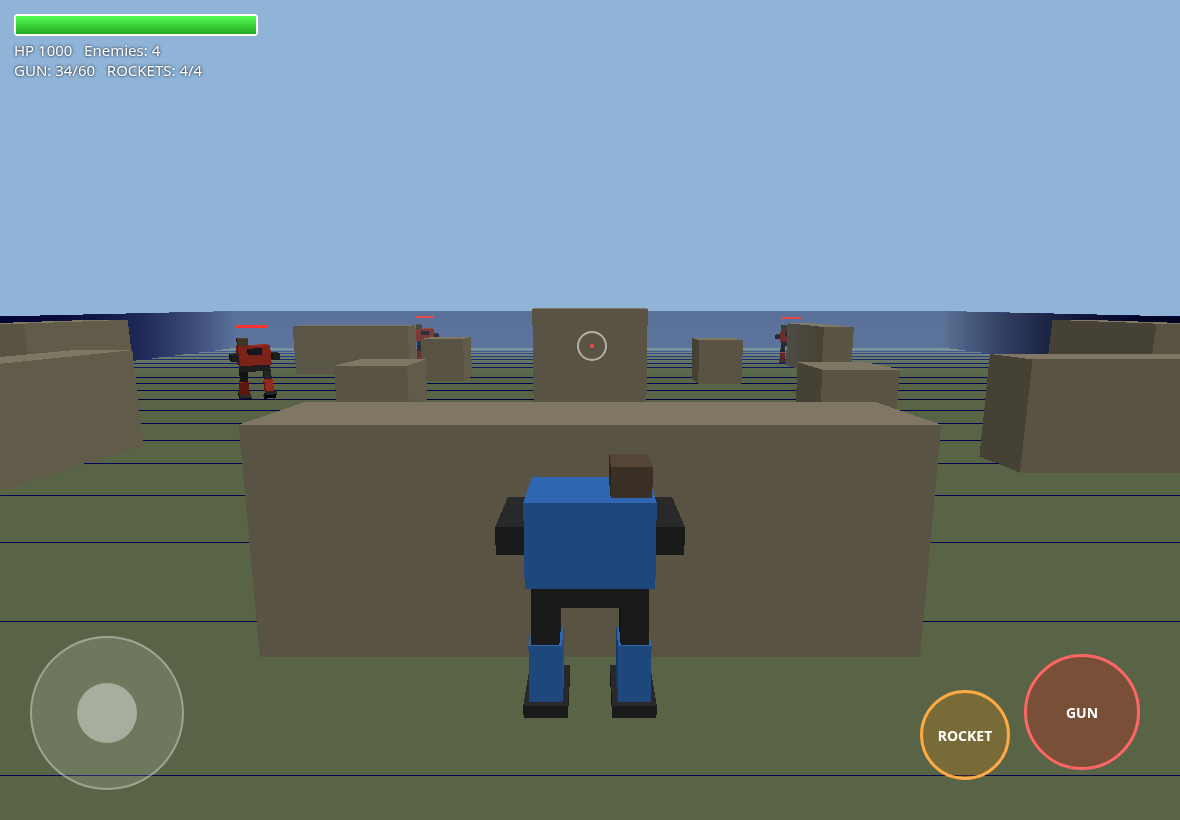
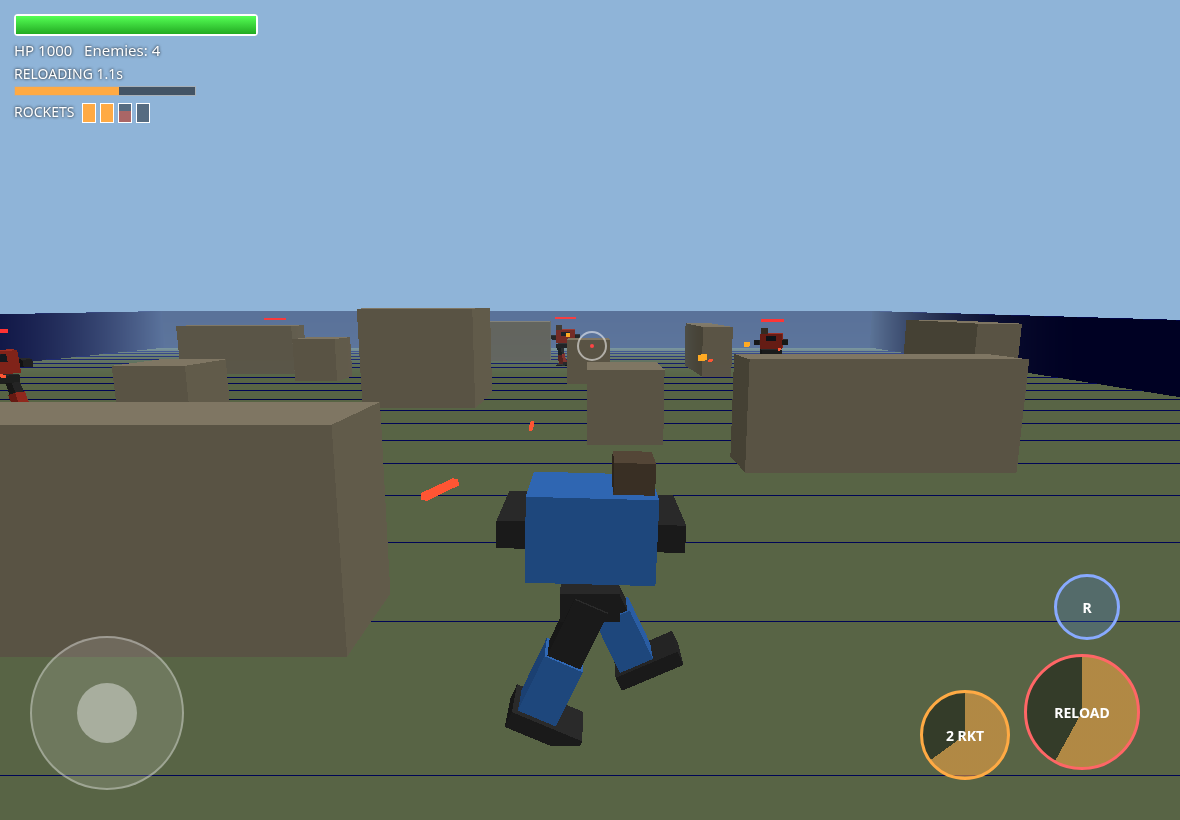
Split legs/torso, aim-facing torso, reload system + indicators

diff --git a/game.js b/game.js
@@ -1,4 +1,13 @@
 import * as THREE from './three.module.js';
+// ================= CONFIG (tune here) =================
+const CFG={
+ player:{hp:1000,speed:9,legTurn:6,torsoTurn:7},
+ gun:{mag:60,reload:2.5,fireInterval:0.09,dmg:14,spread:0.03},
+ rocket:{max:4,recharge:3.0,cooldown:0.35,dmg:140,splash:4},
+ enemy:{hp:400,speed:6,legTurn:4,torsoTurn:2.5,mag:24,reload:3.0,burstInterval:0.15,burstPause:[1.2,2.4],dmg:9,
+        rockets:2,rocketRecharge:6.0,rocketChance:0.15},
+};
+// ======================================================
 const R=new THREE.WebGLRenderer({antialias:false});
 R.setPixelRatio(Math.min(devicePixelRatio,1.5));R.setSize(innerWidth,innerHeight);R.shadowMap.enabled=false;
 document.body.prepend(R.domElement);
@@ -20,35 +29,42 @@ function blocked(x,z,r){for(const o of obst)if(Math.abs(x-o.x)<o.hx+r&&Math.abs(
 function los(a,b){const d=b.clone().sub(a),L=d.length(),n=Math.ceil(L/1.5);for(let i=1;i<n;i++){const p=a.clone().addScaledVector(d,i/n);for(const o of obst)if(p.y<o.h&&Math.abs(p.x-o.x)<o.hx&&Math.abs(p.z-o.z)<o.hz)return false;}return true;}
 // mech builder
 function mech(col){const g=new THREE.Group(),m=M(col),dk=M(0x333333);
- const legs=[];for(const s of[-1,1]){const l=new THREE.Group();l.position.set(s*0.8,2.4,0);const th=new THREE.Mesh(boxG,dk);th.scale.set(.5,1.3,.6);th.position.y=-.6;const sh=new THREE.Mesh(boxG,m);sh.scale.set(.6,1.3,.7);sh.position.y=-1.7;const ft=new THREE.Mesh(boxG,dk);ft.scale.set(.8,.3,1.3);ft.position.set(0,-2.3,.2);l.add(th,sh,ft);g.add(l);legs.push(l);}
+ const lower=new THREE.Group();g.add(lower);const legs=[];for(const s of[-1,1]){const l=new THREE.Group();l.position.set(s*0.8,2.4,0);const th=new THREE.Mesh(boxG,dk);th.scale.set(.5,1.3,.6);th.position.y=-.6;const sh=new THREE.Mesh(boxG,m);sh.scale.set(.6,1.3,.7);sh.position.y=-1.7;const ft=new THREE.Mesh(boxG,dk);ft.scale.set(.8,.3,1.3);ft.position.set(0,-2.3,.2);l.add(th,sh,ft);lower.add(l);legs.push(l);}
  const top=new THREE.Group();top.position.y=2.6;g.add(top);
- const hip=new THREE.Mesh(boxG,dk);hip.scale.set(2,.5,1);hip.position.y=2.4;g.add(hip);
+ const hip=new THREE.Mesh(boxG,dk);hip.scale.set(2,.5,1);hip.position.y=2.4;lower.add(hip);
  const t=new THREE.Mesh(boxG,m);t.scale.set(2.2,1.5,1.6);t.position.y=.8;top.add(t);
  const cab=new THREE.Mesh(boxG,M(0x222a33));cab.scale.set(1,.5,.4);cab.position.set(0,1.1,.75);top.add(cab);
- const guns=[];for(const s of[-1,1]){const gp=new THREE.Mesh(boxG,dk);gp.scale.set(.5,.5,1.8);gp.position.set(s*1.4,.7,.6);top.add(gp);guns.push(gp);}
+ const guns=[];for(const s of[-1,1]){const pv=new THREE.Group();pv.position.set(s*1.4,.7,0);const gp=new THREE.Mesh(boxG,dk);gp.scale.set(.5,.5,1.8);gp.position.z=.6;pv.add(gp);top.add(pv);guns.push(pv);}
  const pod=new THREE.Mesh(boxG,M(0x665544));pod.scale.set(.7,.6,.9);pod.position.set(-.7,1.8,-.1);top.add(pod);
- S.add(g);return{g,legs,top,guns,walk:0};}
-function animLegs(u,sp,dt){u.walk+=sp*dt*2.2;const a=sp>0.1?Math.sin(u.walk)*0.5:0;u.legs[0].rotation.x=a;u.legs[1].rotation.x=-a;}
+ S.add(g);return{g,lower,legs,top,guns,pod,walk:0,legYaw:0,tYaw:0,gp:0};}
+const wrap=a=>Math.atan2(Math.sin(a),Math.cos(a));
+function turn(cur,tgt,rate,dt){const d=wrap(tgt-cur);return cur+Math.sign(d)*Math.min(Math.abs(d),rate*dt);}
+// legs face movement; if moving >110deg away from torso, legs face opposite and walk backwards
+function animLegs(u,mvx,mvz,sp,dt,legTurn){let dir=1;
+ if(sp>0.1){let my=Math.atan2(mvx,mvz);if(Math.abs(wrap(my-u.tYaw))>1.9){my+=Math.PI;dir=-1;}u.legYaw=turn(u.legYaw,my,legTurn,dt);u.walk+=dir*sp*dt*1.1;}
+ const tgtA=sp>0.1?Math.sin(u.walk)*0.55:0;for(let i=0;i<2;i++){const want=i?-tgtA:tgtA;u.legs[i].rotation.x+=(want-u.legs[i].rotation.x)*Math.min(1,dt*12);}
+ u.lower.rotation.y=u.legYaw;u.top.rotation.y=u.tYaw;const bob=sp>0.1?Math.abs(Math.cos(u.walk))*0.18:0;u.top.position.y+=(2.6+bob-u.top.position.y)*Math.min(1,dt*10);
+ u.top.rotation.z=sp>0.1?Math.sin(u.walk)*0.03:0;for(const g of u.guns)g.rotation.x=u.gp;}
 // state
 let P,E=[],B=[],FX=[],over=false;
 const inp={mx:0,mz:0,mg:false,rk:false,keys:{}};
 function newGame(){E.forEach(e=>S.remove(e.g));if(P)S.remove(P.g);B.forEach(b=>S.remove(b.m));FX.forEach(f=>S.remove(f.m));B=[];FX=[];
- P=Object.assign(mech(0x3a7bd5),{hp:1000,max:1000,yaw:0,pitch:0.05,ammo:60,reload:0,rk:4,rkCd:0,rkRe:0,fireCd:0});P.g.position.set(0,0,48);P.yaw=Math.PI;
+ P=Object.assign(mech(0x3a7bd5),{hp:CFG.player.hp,max:CFG.player.hp,yaw:Math.PI,pitch:0.05,ammo:CFG.gun.mag,reload:0,rk:CFG.rocket.max,rkCd:0,rkRe:0,fireCd:0});P.g.position.set(0,0,48);P.tYaw=P.legYaw=Math.PI;
  E=[];const sp=[[-40,-45],[40,-45],[0,-50],[-45,-15],[45,-15]];const n=3+Math.floor(Math.random()*3);
- for(let i=0;i<n;i++){const e=Object.assign(mech(0xc0392b),{hp:400,max:400,yaw:0,cd:1+Math.random()*2,tgt:null,think:0,burst:0});e.g.position.set(sp[i][0],0,sp[i][1]);
+ for(let i=0;i<n;i++){const e=Object.assign(mech(0xc0392b),{hp:CFG.enemy.hp,max:CFG.enemy.hp,cd:1+Math.random()*2,tgt:null,think:0,burst:0,ammo:CFG.enemy.mag,reload:0,rk:CFG.enemy.rockets,rkRe:0});e.g.position.set(sp[i][0],0,sp[i][1]);
   const bar=new THREE.Mesh(new THREE.PlaneGeometry(2.4,.25),new THREE.MeshBasicMaterial({color:0xff3333}));bar.position.y=5.6;e.g.add(bar);e.bar=bar;E.push(e);}
  over=false;document.getElementById('msg').style.display='none';}
 const bulletG=new THREE.BoxGeometry(.15,.15,1.2),rocketG=new THREE.BoxGeometry(.35,.35,1),bm=new THREE.MeshBasicMaterial({color:0xffee66}),ebm=new THREE.MeshBasicMaterial({color:0xff5533}),rm=new THREE.MeshBasicMaterial({color:0xffaa22});
 function shoot(from,dir,owner,rocket){const m=new THREE.Mesh(rocket?rocketG:bulletG,rocket?rm:(owner==='p'?bm:ebm));m.position.copy(from);m.lookAt(from.clone().add(dir));S.add(m);
- B.push({m,v:dir.clone().multiplyScalar(rocket?45:110),owner,rocket,life:rocket?3:1.2,dmg:rocket?140:(owner==='p'?14:9)});}
+ B.push({m,v:dir.clone().multiplyScalar(rocket?45:110),owner,rocket,life:rocket?3:1.2,dmg:rocket?CFG.rocket.dmg:(owner==='p'?CFG.gun.dmg:CFG.enemy.dmg)});}
 const fxG=new THREE.SphereGeometry(1,8,6);
 function boom(p,s,c=0xff8800){const m=new THREE.Mesh(fxG,new THREE.MeshBasicMaterial({color:c,transparent:true}));m.position.copy(p);m.scale.setScalar(.2);S.add(m);FX.push({m,t:0,s});}
-function muzzle(u,i){const p=new THREE.Vector3();u.guns[i].getWorldPosition(p);const f=new THREE.Vector3(Math.sin(u.yaw),0,Math.cos(u.yaw));return p.addScaledVector(f,1);}
+function muzzle(u,i){const p=new THREE.Vector3();u.guns[i].getWorldPosition(p);const f=new THREE.Vector3(Math.sin(u.tYaw),0,Math.cos(u.tYaw));return p.addScaledVector(f,1.5);}
 // aim direction for player: from camera through crosshair
 const ray=new THREE.Raycaster();
 function playerAim(){ray.setFromCamera(new THREE.Vector2(0,0.16),C);const tg=[...E.map(e=>e.g),...obst.map(o=>o.m),ground];const h=ray.intersectObjects(tg,true).find(h=>h.distance>12);return h?h.point:ray.ray.at(120,new THREE.Vector3());}
 // input: keyboard/mouse
-addEventListener('keydown',e=>{inp.keys[e.code]=true;if(e.code==='KeyR'&&P.ammo<60&&!P.reload)P.reload=1.6;});addEventListener('keyup',e=>inp.keys[e.code]=false);
+addEventListener('keydown',e=>{inp.keys[e.code]=true;if(e.code==='KeyR')manualReload();});addEventListener('keyup',e=>inp.keys[e.code]=false);
 const cv=R.domElement;cv.addEventListener('mousedown',e=>{if(document.pointerLockElement!==cv&&cv.requestPointerLock){cv.requestPointerLock();}if(e.button===0)inp.mMG=true;if(e.button===2)inp.mRK=true;});
 addEventListener('mouseup',e=>{if(e.button===0)inp.mMG=false;if(e.button===2)inp.mRK=false;});addEventListener('contextmenu',e=>e.preventDefault());
 addEventListener('mousemove',e=>{if(document.pointerLockElement===cv){P.yaw-=e.movementX*.003;P.pitch=Math.max(-.3,Math.min(.5,P.pitch+e.movementY*.002));}});
@@ -64,7 +80,7 @@ aim.addEventListener('touchstart',e=>{e.preventDefault();if(aid===null){const t=
 function hold(id,k){const b=document.getElementById(id);b.addEventListener('touchstart',e=>{e.preventDefault();inp[k]=true;},{passive:false});b.addEventListener('touchend',e=>{e.preventDefault();inp[k]=false;});b.addEventListener('touchcancel',()=>inp[k]=false);}
 hold('bMG','mg');hold('bRK','rk');
 document.getElementById('rs').onclick=newGame;document.getElementById('rs').addEventListener('touchend',e=>{e.preventDefault();newGame();});
-if(!('ontouchstart' in window)){joy.style.display='none';document.getElementById('bMG').style.display='none';document.getElementById('bRK').style.display='none';}
+if(!('ontouchstart' in window)){joy.style.display='none';document.getElementById('bMG').style.display='none';document.getElementById('bRK').style.display='none';document.getElementById('bRL').style.display='none';}
 else document.getElementById('hint').style.display='none';
 // game loop
 const fwd=new THREE.Vector3(),rt=new THREE.Vector3(),tmp=new THREE.Vector3();
@@ -76,40 +92,52 @@ function loop(now){requestAnimationFrame(loop);const dt=Math.min(.05,(now-last)/
 function update(dt){const k=inp.keys;let mx=inp.mx+((k.KeyD?1:0)-(k.KeyA?1:0)),mz=inp.mz+((k.KeyS?1:0)-(k.KeyW?1:0));
  if(k.ArrowLeft)P.yaw+=2*dt;if(k.ArrowRight)P.yaw-=2*dt;
  fwd.set(Math.sin(P.yaw),0,Math.cos(P.yaw));rt.set(-fwd.z,0,fwd.x);
- const v=tmp.set(0,0,0).addScaledVector(fwd,-mz).addScaledVector(rt,mx);const sp=Math.min(1,v.length());if(sp>.05){v.normalize();move(P,v.x,v.z,dt,9*sp);}
- animLegs(P,sp*9,dt);P.g.rotation.y=P.yaw;
- // weapons
- P.fireCd-=dt;P.rkCd-=dt;
- if(P.reload>0){P.reload-=dt;if(P.reload<=0){P.reload=0;P.ammo=60;}}
- if(P.rk<4){P.rkRe-=dt;if(P.rkRe<=0){P.rk++;P.rkRe=2.5;}}
- const pt=(inp.mg||inp.mMG||k.Space)?playerAim():null;
- if(pt&&P.fireCd<=0&&P.ammo>0&&!P.reload){P.fireCd=.09;P.ammo--;const i=P.ammo%2,f=muzzle(P,i);const d=pt.clone().sub(f).normalize();d.x+=(Math.random()-.5)*.03;d.y+=(Math.random()-.5)*.03;shoot(f,d.normalize(),'p',false);if(P.ammo===0)P.reload=1.6;}
- if((inp.rk||inp.mRK||k.KeyQ)&&P.rkCd<=0&&P.rk>0){const t=playerAim();P.rkCd=.35;if(P.rk===4)P.rkRe=2.5;P.rk--;const f=new THREE.Vector3();P.top.children[3].getWorldPosition(f);shoot(f,t.clone().sub(f).normalize(),'p',true);}
+ const v=tmp.set(0,0,0).addScaledVector(fwd,-mz).addScaledVector(rt,mx);const sp=Math.min(1,v.length());if(sp>.05){v.normalize();move(P,v.x,v.z,dt,CFG.player.speed*sp);}
+ P.tYaw=turn(P.tYaw,P.yaw,CFG.player.torsoTurn,dt);P.gp+=((P.pitch-0.05)*0.8-P.gp)*Math.min(1,dt*8);
+ animLegs(P,v.x,v.z,sp*CFG.player.speed,dt,CFG.player.legTurn);
+ const G=CFG.gun,RK=CFG.rocket;P.fireCd-=dt;P.rkCd-=dt;
+ if(P.reload>0){P.reload-=dt;if(P.reload<=0){P.reload=0;P.ammo=G.mag;}}
+ if(P.rk<RK.max){P.rkRe-=dt;if(P.rkRe<=0){P.rk++;P.rkRe=P.rk<RK.max?RK.recharge:0;}}
+ const aligned=Math.abs(wrap(P.yaw-P.tYaw))<0.35;
+ const pt=(inp.mg||inp.mMG||k.Space)&&aligned?playerAim():null;
+ if(pt&&P.fireCd<=0&&P.ammo>0&&!P.reload){P.fireCd=G.fireInterval;P.ammo--;const i=P.ammo%2,f=muzzle(P,i);const d=pt.clone().sub(f).normalize();d.x+=(Math.random()-.5)*G.spread;d.y+=(Math.random()-.5)*G.spread;shoot(f,d.normalize(),'p',false);if(P.ammo===0)P.reload=G.reload;}
+ if((inp.rk||inp.mRK||k.KeyQ)&&aligned&&P.rkCd<=0&&P.rk>0){const t=playerAim();P.rkCd=RK.cooldown;if(P.rk===RK.max)P.rkRe=RK.recharge;P.rk--;const f=new THREE.Vector3();P.pod.getWorldPosition(f);shoot(f,t.clone().sub(f).normalize(),'p',true);}
  // AI
  const pp=P.g.position;for(const e of E){const ep=e.g.position;const toP=tmp.copy(pp).sub(ep);const dist=toP.length();const eye=ep.clone().setY(3.3),pe=pp.clone().setY(3.3);const see=los(eye,pe);
   e.think-=dt;if(e.think<=0){e.think=1.5+Math.random()*2;
    if(e.hp<e.max*.5||Math.random()<.35){// seek cover: pick obstacle, go to far side from player
     const o=obst[4+Math.floor(Math.random()*(obst.length-4))];const away=new THREE.Vector3(o.x-pp.x,0,o.z-pp.z).normalize();e.tgt=new THREE.Vector3(o.x+away.x*(o.hx+2.5),0,o.z+away.z*(o.hz+2.5));}
    else{const a=Math.random()*6.28,r=18+Math.random()*12;e.tgt=new THREE.Vector3(pp.x+Math.cos(a)*r,0,pp.z+Math.sin(a)*r);}}
-  let s=0;if(e.tgt){const d=e.tgt.clone().sub(ep);d.y=0;if(d.length()>1.5){d.normalize();const bx=ep.x,bz=ep.z;move(e,d.x,d.z,dt,6);if(Math.hypot(ep.x-bx,ep.z-bz)<.01)e.think=0;s=6;}}
-  animLegs(e,s,dt);const ty=Math.atan2(toP.x,toP.z);let dy=ty-e.yaw;dy=Math.atan2(Math.sin(dy),Math.cos(dy));e.yaw+=Math.sign(dy)*Math.min(Math.abs(dy),2.5*dt);e.g.rotation.y=e.yaw;
-  e.bar.quaternion.copy(C.quaternion);e.bar.quaternion.premultiply(e.g.quaternion.clone().invert());e.bar.scale.x=Math.max(0,e.hp/e.max);
-  e.cd-=dt;if(see&&dist<70&&Math.abs(dy)<.3&&e.cd<=0){if(e.burst<=0)e.burst=6;e.burst--;e.cd=e.burst>0?.15:1.5+Math.random()*1.5;
-   if(Math.random()<.12){const f=ep.clone().setY(4.4);shoot(f,pe.clone().sub(f).normalize(),'e',true);}
-   else{const f=muzzle(e,e.burst%2),d=pe.clone().sub(f).normalize();d.x+=(Math.random()-.5)*.08;d.y+=(Math.random()-.5)*.05;d.z+=(Math.random()-.5)*.08;shoot(f,d.normalize(),'e',false);}}}
+  let s=0;if(e.tgt){var d=e.tgt.clone().sub(ep);d.y=0;if(d.length()>1.5){d.normalize();const bx=ep.x,bz=ep.z;move(e,d.x,d.z,dt,CFG.enemy.speed);if(Math.hypot(ep.x-bx,ep.z-bz)<.01)e.think=0;s=CFG.enemy.speed;}}
+  const ty=Math.atan2(toP.x,toP.z);e.tYaw=turn(e.tYaw,ty,CFG.enemy.torsoTurn,dt);const dy=wrap(ty-e.tYaw);
+  animLegs(e,s?d.x:0,s?d.z:0,s,dt,CFG.enemy.legTurn);
+  const EC=CFG.enemy;if(e.reload>0){e.reload-=dt;if(e.reload<=0){e.reload=0;e.ammo=EC.mag;}}if(e.rk<EC.rockets){e.rkRe-=dt;if(e.rkRe<=0){e.rk++;e.rkRe=EC.rocketRecharge;}}
+  e.bar.quaternion.copy(C.quaternion);e.bar.scale.x=Math.max(0,e.hp/e.max);
+  e.cd-=dt;if(see&&dist<70&&Math.abs(dy)<.3&&e.cd<=0&&!e.reload){if(e.burst<=0)e.burst=6;e.burst--;e.cd=e.burst>0?EC.burstInterval:EC.burstPause[0]+Math.random()*(EC.burstPause[1]-EC.burstPause[0]);
+   if(e.rk>0&&Math.random()<EC.rocketChance){if(e.rk===EC.rockets)e.rkRe=EC.rocketRecharge;e.rk--;const f=ep.clone().setY(4.4);shoot(f,pe.clone().sub(f).normalize(),'e',true);}
+   else{const f=muzzle(e,e.burst%2),d=pe.clone().sub(f).normalize();d.x+=(Math.random()-.5)*.08;d.y+=(Math.random()-.5)*.05;d.z+=(Math.random()-.5)*.08;shoot(f,d.normalize(),'e',false);e.ammo--;if(e.ammo<=0){e.reload=EC.reload;e.burst=0;}}}}
  // bullets
  for(let i=B.length-1;i>=0;i--){const b=B[i],p=b.m.position;const steps=3;let hit=false;
   for(let s=0;s<steps&&!hit;s++){p.addScaledVector(b.v,dt/steps);
    if(p.y<0||Math.abs(p.x)>A||Math.abs(p.z)>A){hit=true;break;}
    for(const o of obst)if(p.y<o.h&&Math.abs(p.x-o.x)<o.hx&&Math.abs(p.z-o.z)<o.hz){hit=true;break;}
    const targets=b.owner==='p'?E:[P];for(const u of targets){const q=u.g.position;if(p.y<5.2&&Math.hypot(p.x-q.x,p.z-q.z)<1.7){hurt(u,b.dmg);hit=true;break;}}}
-  b.life-=dt;if(hit||b.life<=0){if(hit){boom(p.clone(),b.rocket?3:.6,b.rocket?0xff7700:0xffdd55);if(b.rocket){const targets=b.owner==='p'?E:[P];for(const u of targets){const dd=u.g.position.clone().setY(2.5).distanceTo(p);if(dd<4)hurt(u,b.dmg*.4*(1-dd/4));}}}S.remove(b.m);B.splice(i,1);}}
+  b.life-=dt;if(hit||b.life<=0){if(hit){boom(p.clone(),b.rocket?3:.6,b.rocket?0xff7700:0xffdd55);if(b.rocket){const targets=b.owner==='p'?E:[P];for(const u of targets){const dd=u.g.position.clone().setY(2.5).distanceTo(p);if(dd<CFG.rocket.splash)hurt(u,b.dmg*.4*(1-dd/CFG.rocket.splash));}}}S.remove(b.m);B.splice(i,1);}}
  for(let i=E.length-1;i>=0;i--)if(E[i].hp<=0){const p=E[i].g.position.clone().setY(3);boom(p,6);boom(p.clone().setY(5),4,0x444444);S.remove(E[i].g);E.splice(i,1);}
  if(P.hp<=0){boom(pp.clone().setY(3),6);P.hp=0;end(false);}else if(!E.length)end(true);
  hud();}
 function updFx(dt){for(let i=FX.length-1;i>=0;i--){const f=FX[i];f.t+=dt*3;f.m.scale.setScalar(f.s*f.t);f.m.material.opacity=1-f.t;if(f.t>=1){S.remove(f.m);f.m.material.dispose();FX.splice(i,1);}}}
 function cam(){if(!P)return;const p=P.g.position;const b=new THREE.Vector3(-Math.sin(P.yaw),0,-Math.cos(P.yaw));C.position.set(p.x+b.x*11,7+P.pitch*8,p.z+b.z*11);C.lookAt(p.x-b.x*10,4.5-P.pitch*12,p.z-b.z*10);}
 const hpf=document.getElementById('hpf'),info=document.getElementById('info');
-function hud(){hpf.style.width=(P.hp/P.max*100)+'%';info.innerHTML=`HP ${Math.ceil(P.hp)} &nbsp; Enemies: ${E.length}<br>GUN: ${P.reload?'RELOADING…':P.ammo+'/60'} &nbsp; ROCKETS: ${P.rk}/4`;}
+const bMG=document.getElementById('bMG'),bRK=document.getElementById('bRK'),gunBar=document.getElementById('gunf'),rkPips=document.getElementById('rkp');
+function manualReload(){if(P&&!over&&!P.reload&&P.ammo<CFG.gun.mag)P.reload=CFG.gun.reload;}
+document.getElementById('bRL').addEventListener('touchstart',e=>{e.preventDefault();manualReload();},{passive:false});
+function ring(el,frac,col){el.style.background=`conic-gradient(${col} ${frac*360}deg, #0006 0)`;}
+function hud(){const G=CFG.gun,RK=CFG.rocket;hpf.style.width=(P.hp/P.max*100)+'%';
+ info.innerHTML=`HP ${Math.ceil(P.hp)} &nbsp; Enemies: ${E.length}`;
+ if(P.reload){const f=1-P.reload/G.reload;gunBar.style.width=f*100+'%';gunBar.style.background='#fa4';document.getElementById('gunt').textContent=`RELOADING ${P.reload.toFixed(1)}s`;ring(bMG,f,'#fa48');bMG.textContent='RELOAD';}
+ else{gunBar.style.width=P.ammo/G.mag*100+'%';gunBar.style.background='#ff6';document.getElementById('gunt').textContent=`GUN ${P.ammo}/${G.mag}`;ring(bMG,P.ammo/G.mag,'#f448');bMG.textContent=P.ammo;}
+ const rf=P.rk<RK.max?1-P.rkRe/RK.recharge:1;let h='';for(let i=0;i<RK.max;i++){const f=i<P.rk?1:(i===P.rk?rf:0);h+=`<span class="pip"><i style="height:${f*100}%;background:${f>=1?'#fa4':'#a66'}"></i></span>`;}rkPips.innerHTML=h;
+ ring(bRK,P.rk>=RK.max?1:rf,P.rk?'#fa48':'#a668');bRK.textContent=P.rk+' RKT';}
 newGame();requestAnimationFrame(loop);
 window.__game={get E(){return E},get P(){return P}};

diff --git a/index.html b/index.html
@@ -19,10 +19,13 @@ canvas{display:block}
 #aim{position:absolute;right:0;top:0;width:55%;height:100%;pointer-events:auto}
 #msg{position:fixed;inset:0;display:none;flex-direction:column;align-items:center;justify-content:center;background:#000a;font-size:44px;font-weight:bold}
 #msg button{margin-top:20px;font-size:26px;padding:14px 40px;border-radius:12px;border:0;background:#fa4;color:#000;font-weight:bold}
+#ammo{position:absolute;top:64px;left:14px;font-size:14px;text-shadow:0 0 3px #000}#ammo .bar{width:180px;height:8px;background:#0008;border:1px solid #fff8;margin:3px 0 6px}#gunf{height:100%;background:#ff6}
+.pip{display:inline-block;width:12px;height:18px;border:1px solid #fff;margin-left:4px;vertical-align:middle;position:relative;background:#0006}.pip i{position:absolute;bottom:0;left:0;right:0}
+#bRL{right:60px;bottom:180px;width:60px;height:60px;background:#48f3;border-color:#8af}
 #hint{position:absolute;bottom:8px;left:50%;transform:translateX(-50%);font-size:12px;opacity:.6}
 </style></head><body>
-<div id="hud"><div id="aim"></div><div id="hp"><div id="hpf"></div></div><div id="info"></div><div id="xh"></div>
-<div id="joy"><div id="knob"></div></div><div class="btn" id="bMG">GUN</div><div class="btn" id="bRK">ROCKET</div>
+<div id="hud"><div id="aim"></div><div id="hp"><div id="hpf"></div></div><div id="info"></div><div id="ammo"><div id="gunt">GUN</div><div class="bar"><div id="gunf"></div></div><div>ROCKETS <span id="rkp"></span></div></div><div id="xh"></div>
+<div id="joy"><div id="knob"></div></div><div class="btn" id="bMG">GUN</div><div class="btn" id="bRK">ROCKET</div><div class="btn" id="bRL">R</div>
 <div id="hint">WASD move · mouse aim (click to lock) · LMB/Space gun · RMB/Q rockets · R reload</div></div>
 <div id="msg"><div id="mt"></div><button id="rs">RESTART</button></div>
-<script type="module" src="game.js"></script></body></html>
+<script type="module" src="game.js?v=2"></script></body></html>
